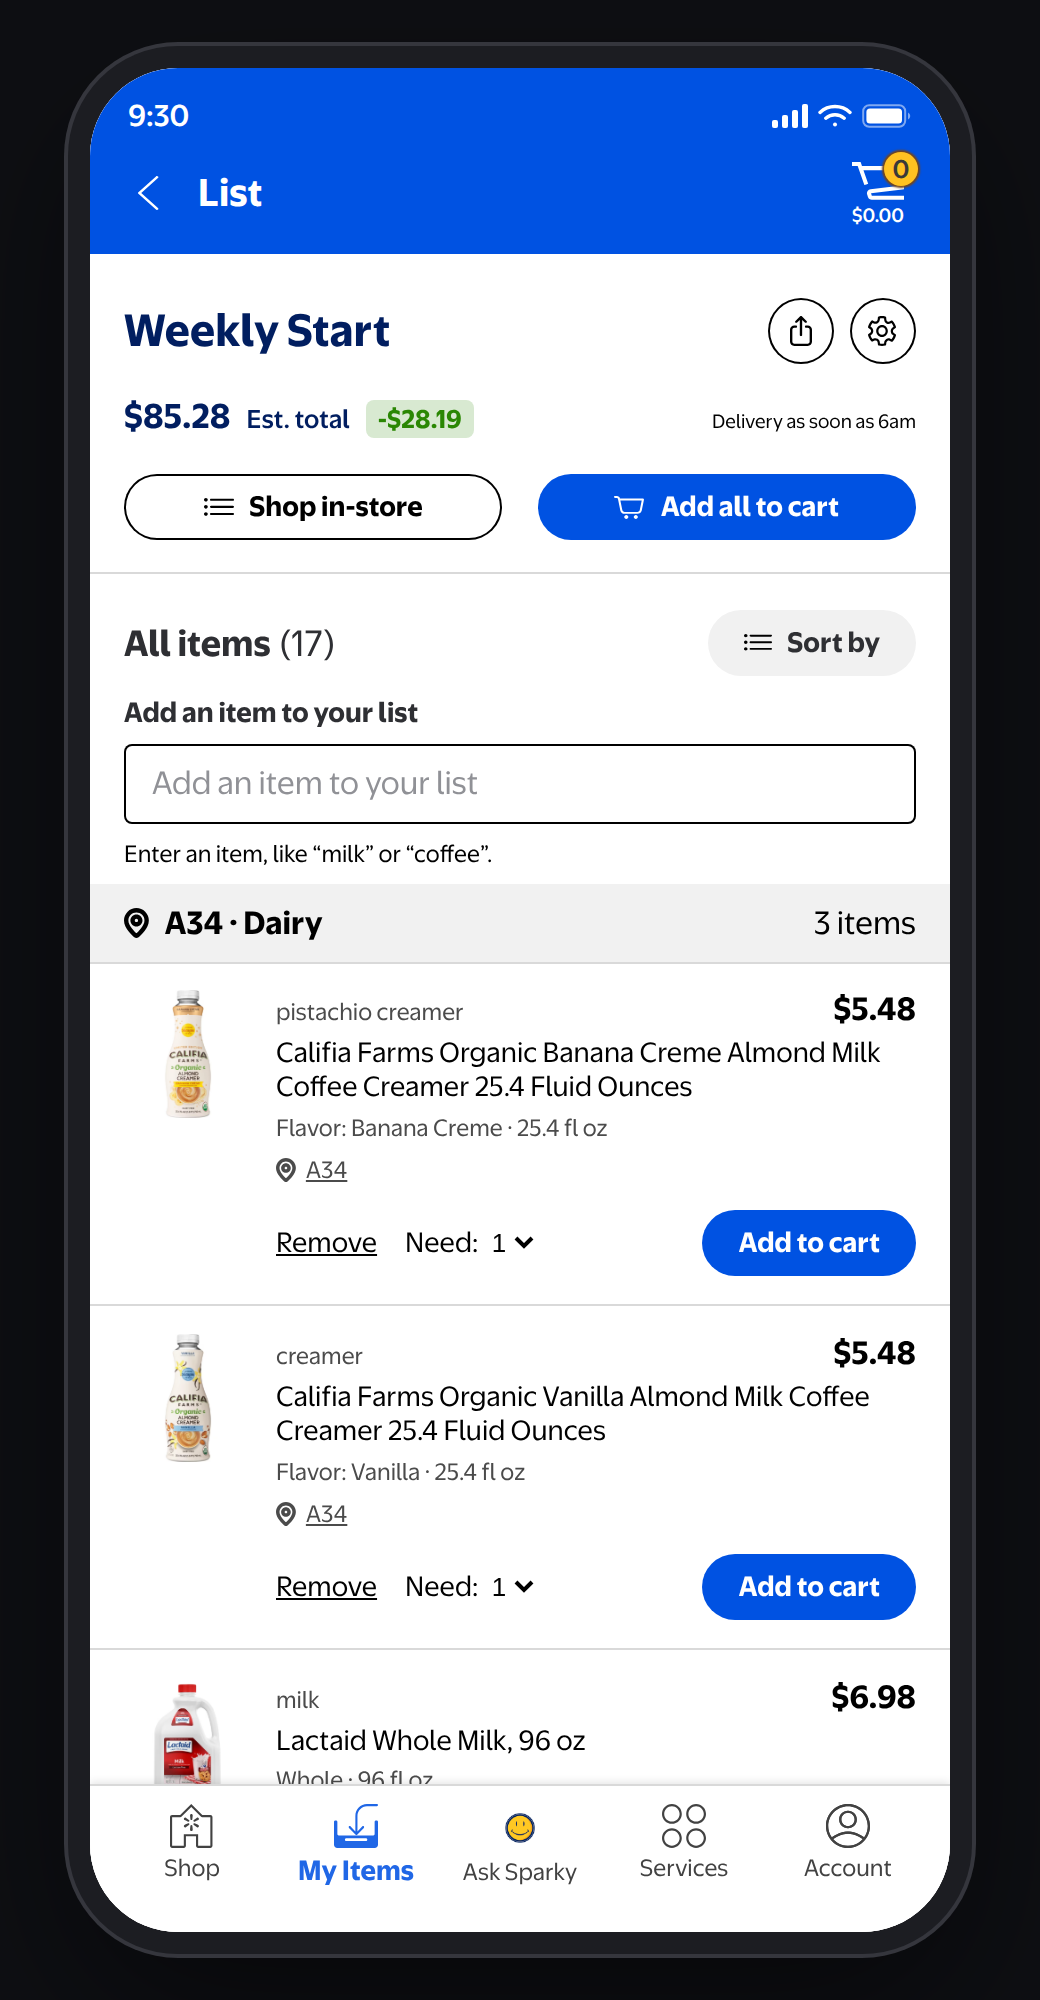
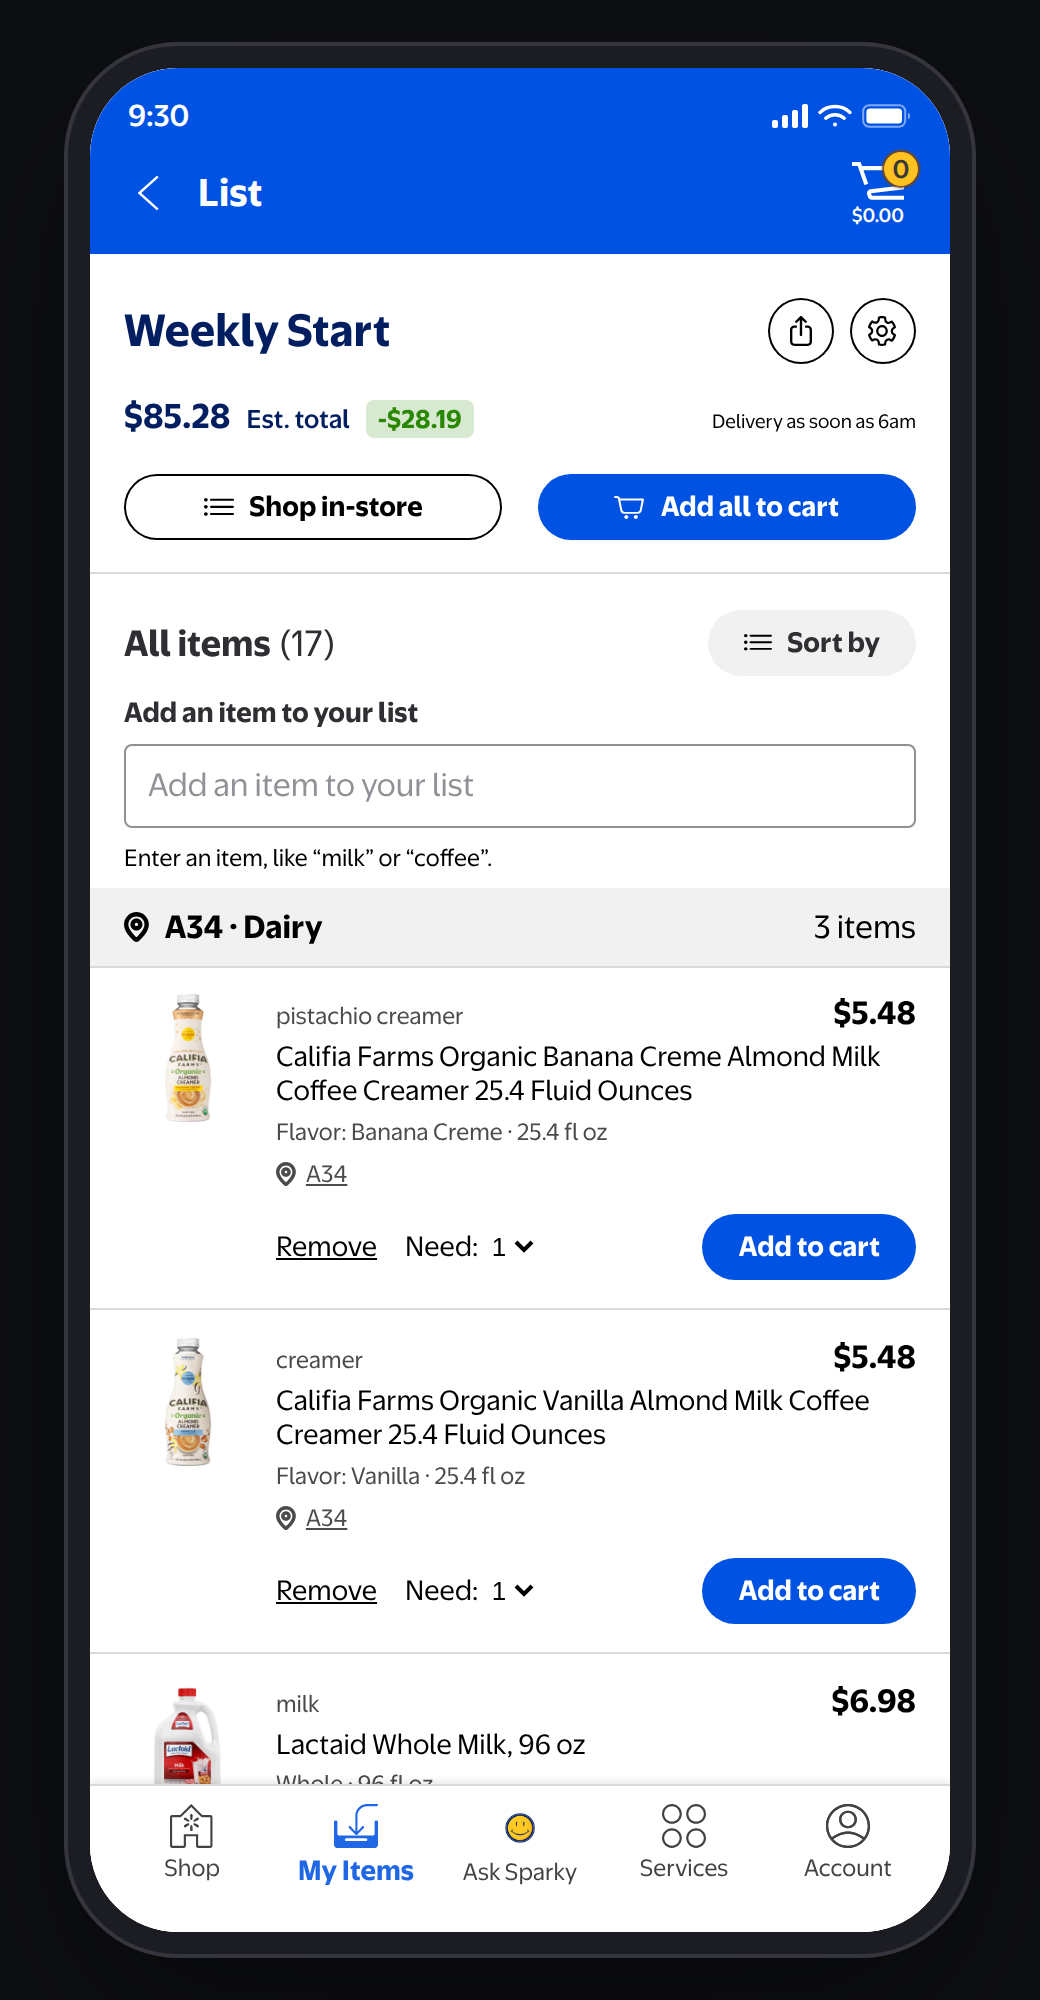
Take the field spec from the design instead of a generic focus ring
The blue ring was not left over from the input restyle - it came from the
global :focus-visible rule, and both fields autofocus so it appeared the
moment either opened. Text fields now opt out of that rule; buttons and links
keep it for keyboard navigation.

The design already expresses focus on a field, so the values come from it
rather than being invented:

  resting   396x42, r4, 1px #909196          (screens 03 and 05)
  focused   325x58, r4, 2px #2E2F33          (screen 04, while typing)
  sheet     396x59, r4                        (screen 02, create a list)

The border was also pure black where the design says #909196, and the inset
was 14px against the design's 12px.

Create-a-list sheet, matched to the attached reference:
  label 13px -> 16px Bold #2E2F33 (design x17,y757)
  field 42px -> 59px
  clear disc 20px -> 23px #2E2F33, vertically centred (design x378,y799)
  sheet title 15px -> 17px Bold

One build break fixed on the way: a JSX comment was inserted inside a
{name && ( ... )} expression, which may only contain a single child.

Verified: 9 targeted checks against the design's numbers, plus the 19
behaviour checks, all green with no console errors.

Claude-Session: https://claude.ai/code/session_01JZaS8mfLTFrBThBCfpqJJB

diff --git a/app/src/design/tokens.css b/app/src/design/tokens.css
@@ -45,6 +45,9 @@ button { font: inherit; color: inherit; background: none; border: 0; padding: 0;
 input { font: inherit; }
 ul, ol { margin: 0; padding: 0; list-style: none; }
 :focus-visible { outline: 2px solid var(--wm-blue); outline-offset: 2px; }
+/* Fields carry the design's own focus treatment (2px #2E2F33 border),
+   so they opt out of the generic ring. */
+input:focus, input:focus-visible, .field:focus, .field:focus-visible { outline: none; }
 
 /* ---------------- device shell ----------------
    The frame is the design's own 430x932. It is never scaled — scaling by a
@@ -147,7 +150,7 @@ ul, ol { margin: 0; padding: 0; list-style: none; }
   animation: rise .28s cubic-bezier(.2,.8,.25,1);
 }
 @keyframes rise { from { transform: translateY(100%) } to { transform: none } }
-.sheet h2 { font-size: 15px; font-weight: 700; text-align: center; margin: 0; }
+.sheet h2 { font-size: 17px; font-weight: 700; text-align: center; margin: 0; }
 .sheet-close { position: absolute; right: 18px; top: 17px; }
 .sheet-back { position: absolute; left: 18px; top: 17px; }
 .sheet-body { margin-top: 16px; }
@@ -194,11 +197,15 @@ ul, ol { margin: 0; padding: 0; list-style: none; }
 .progressbar { height: 4px; background: rgba(255,255,255,.28); border-radius: 2px; margin: 14px 17px 0; }
 .progressbar > div { height: 100%; background: var(--wm-spark); border-radius: 2px; transition: width .3s ease-out; }
 
+/* Field spec straight from the design: 396x42, r4, 1px #909196 at rest;
+   focus goes to a 2px #2E2F33 border (screen 04), never a coloured ring. */
 .field {
   width: 100%; height: 42px; border-radius: var(--r-sm);
-  box-shadow: inset 0 0 0 1px var(--ink); padding: 0 14px; font-size: 15px; background: #fff;
+  box-shadow: inset 0 0 0 1px var(--muted); padding: 0 12px; font-size: 15px; background: #fff;
 }
 .field::placeholder { color: var(--muted); }
+.field:focus { box-shadow: inset 0 0 0 2px var(--ink-2); }
+.field-lg { height: 59px; }
 
 @media (prefers-reduced-motion: reduce) {
   * { animation-duration: .01ms !important; transition-duration: .01ms !important; }

diff --git a/app/src/screens/Lists.tsx b/app/src/screens/Lists.tsx
@@ -76,17 +76,22 @@ export default function Lists() {
 
       {creating && (
         <Sheet title="Create a new list" onClose={() => setCreating(false)}>
-          <label htmlFor="listname" style={{ fontSize: 13, fontWeight: 700 }}>Enter list name</label>
+          {/* design: 16px Bold #2E2F33 at x17,y757 */}
+          <label htmlFor="listname" style={{ fontSize: 16, fontWeight: 700, color: 'var(--ink-2)' }}>
+            Enter list name
+          </label>
           <div style={{ position: 'relative', margin: '10px 0 22px' }}>
-            <input id="listname" className="field" autoFocus value={name}
+            <input id="listname" className="field field-lg" autoFocus value={name}
                    placeholder="Enter list name"
                    onChange={e => setName(e.target.value)}
                    onKeyDown={e => e.key === 'Enter' && create()} />
+            {/* design: 23px #2E2F33 disc at x378, centred in the field */}
             {name && (
               <button onClick={() => setName('')} aria-label="Clear"
-                style={{ position: 'absolute', right: 12, top: 11, width: 20, height: 20,
-                         borderRadius: 999, background: 'var(--ink-2)', display: 'grid', placeItems: 'center' }}>
-                <FigIcon name="close" size={10} color="#fff" />
+                style={{ position: 'absolute', right: 17, top: '50%', transform: 'translateY(-50%)',
+                         width: 23, height: 23, borderRadius: 999, background: 'var(--ink-2)',
+                         display: 'grid', placeItems: 'center' }}>
+                <FigIcon name="close" size={11} color="#fff" />
               </button>
             )}
           </div>

diff --git a/app/src/screens/ListDetail.tsx b/app/src/screens/ListDetail.tsx
@@ -58,8 +58,9 @@ export default function ListDetail() {
         </div>
 
         <div style={{ padding: '18px 16px 6px', display: 'flex', gap: 14, alignItems: 'center' }}>
+          {/* design screen 04: 325x58, r4, 2px #2E2F33 while typing */}
           <input className="field" autoFocus value={query} placeholder="Add an item to your list"
-                 onChange={e => setQuery(e.target.value)} style={{ flex: 1, height: 40 }} />
+                 onChange={e => setQuery(e.target.value)} style={{ flex: 1, height: 58 }} />
           <button style={{ fontSize: 15 }} onClick={() => { setSearching(false); setQuery(''); }}>Cancel</button>
         </div>
         <div style={{ padding: '0 16px', fontSize: 11 }}>Enter an item, like “milk” or “coffee”.</div>
@@ -152,7 +153,7 @@ export default function ListDetail() {
             Add an item to your list
           </div>
           <button className="field" onClick={() => setSearching(true)}
-                  style={{ textAlign: 'left', color: 'var(--muted)', height: 40 }}>
+                  style={{ textAlign: 'left', color: 'var(--muted)', height: 42 }}>
             Add an item to your list
           </button>
           <div style={{ fontSize: 11, margin: '8px 0 2px' }}>Enter an item, like “milk” or “coffee”.</div>
